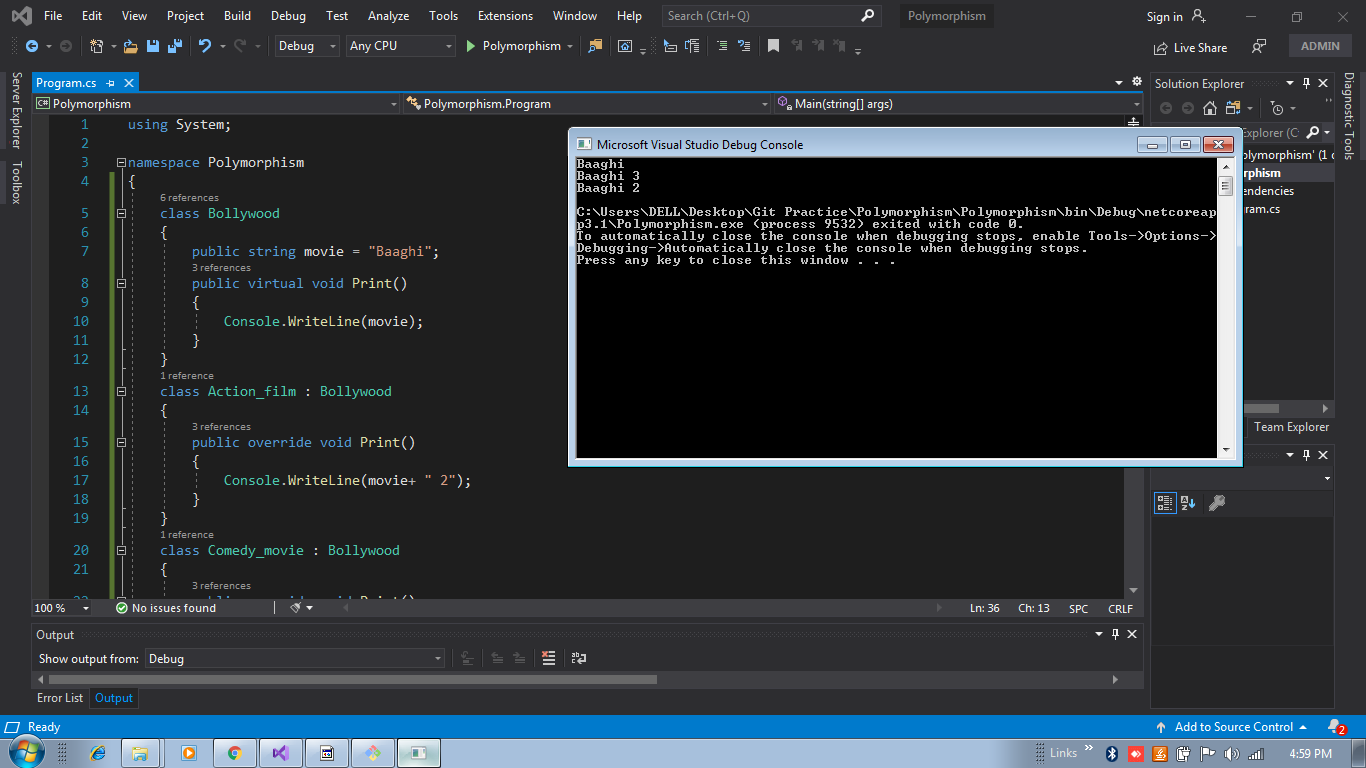
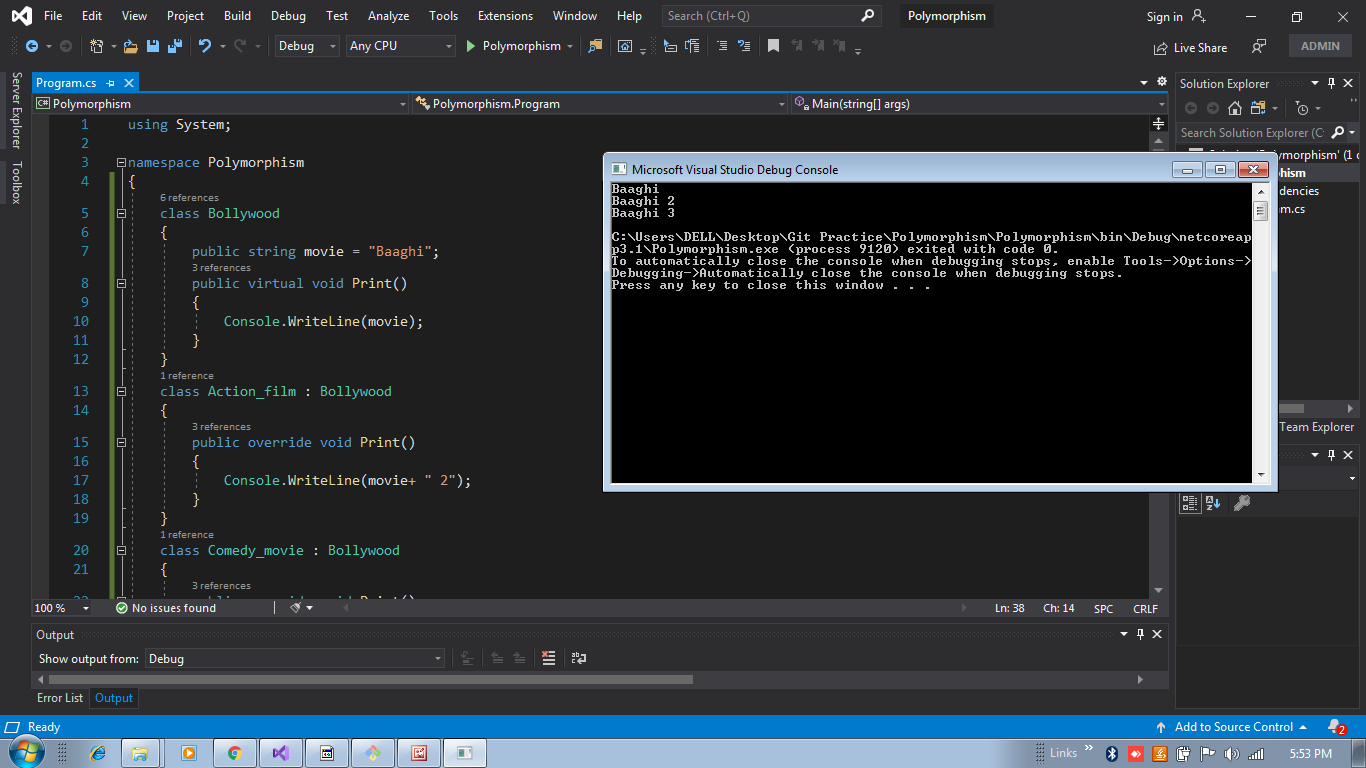
Added Polymorphism Task

diff --git a/Polymorphism/Polymorphism/Program.cs b/Polymorphism/Polymorphism/Program.cs
@@ -31,8 +31,8 @@ namespace Polymorphism
             Bollywood[] films = new Bollywood[3];
 
             films[0] = new Bollywood();
-            films[1] = new Comedy_movie();
-            films[2] = new Action_film();
+            films[1] = new Action_film();
+            films[2] = new Comedy_movie();
 
             foreach(Bollywood i in films)
             {
